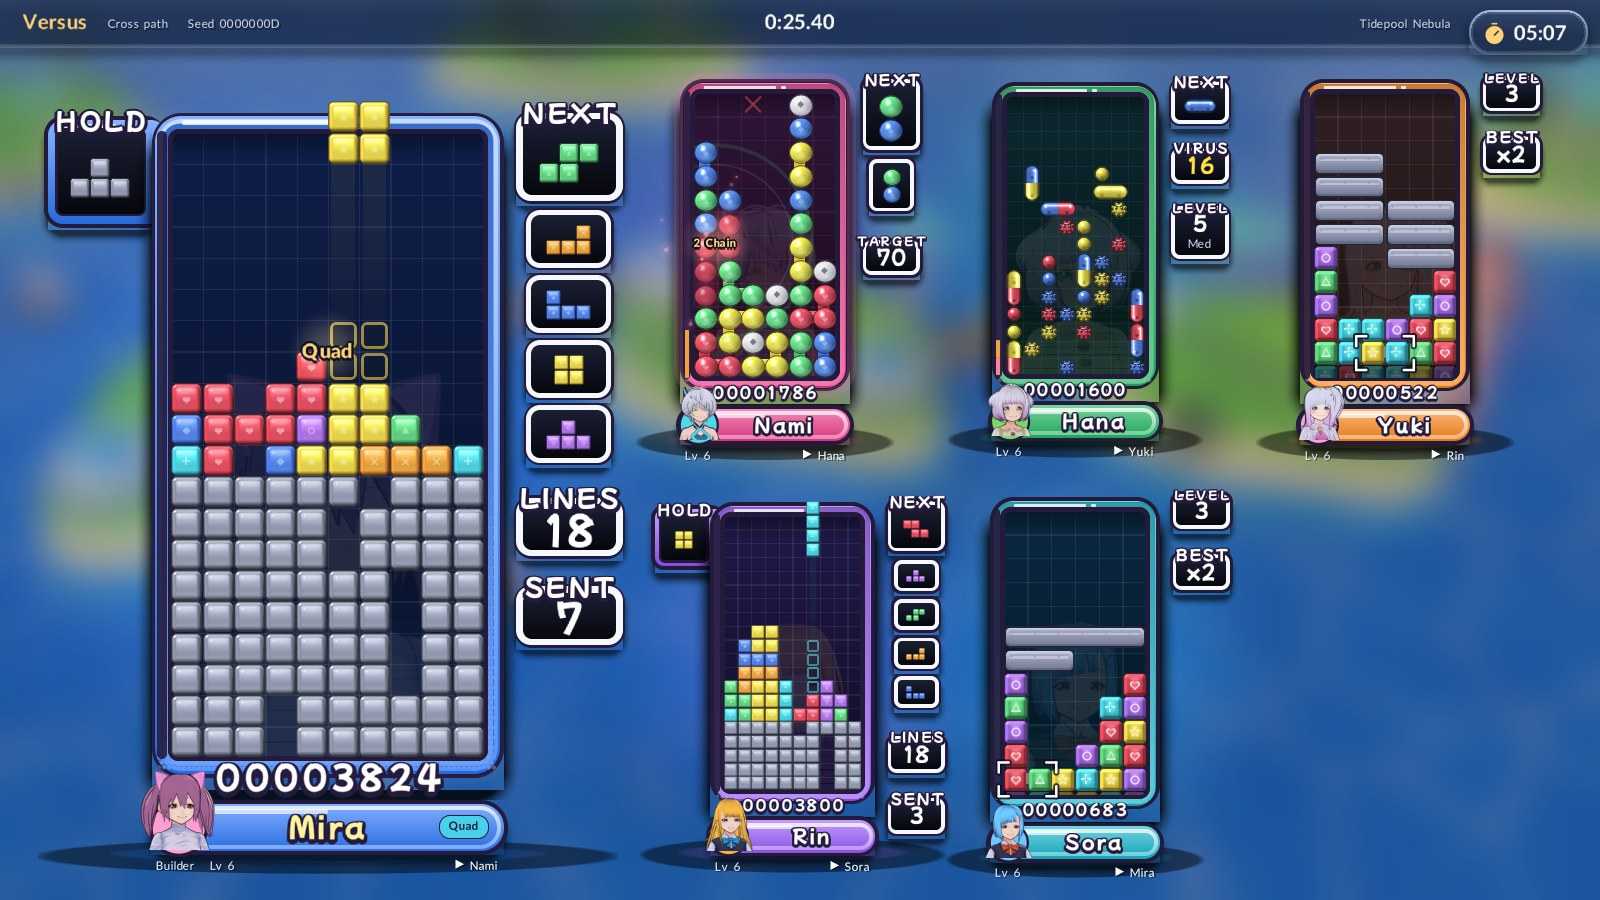
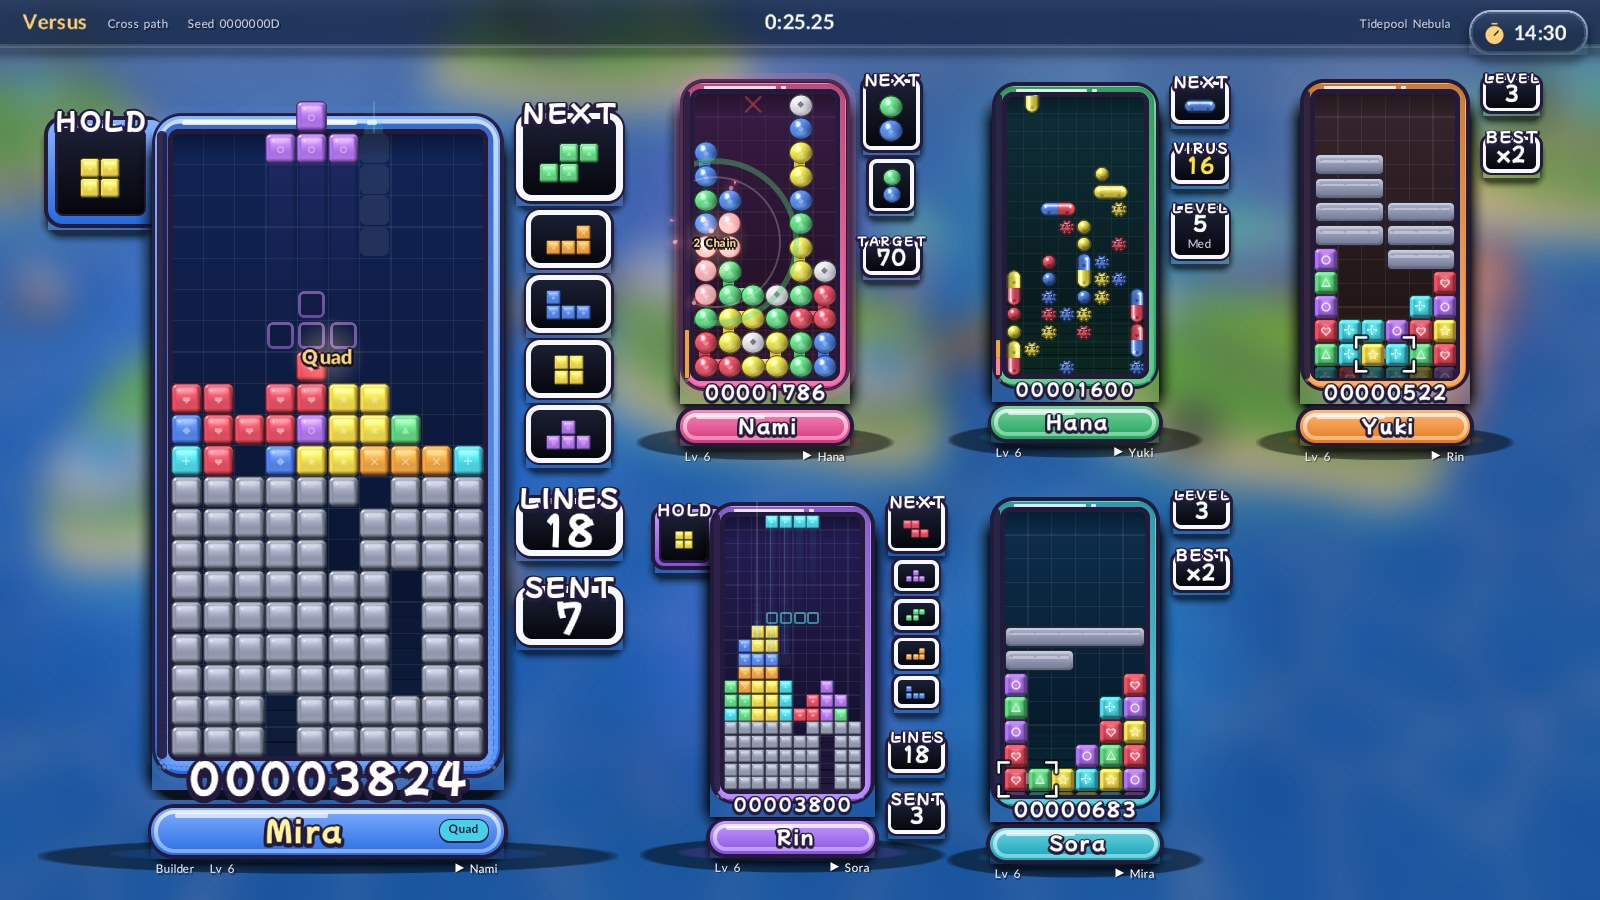
Keep the characters off the board UI
- No character is ghosted inside the wells any more, and the name bar no
  longer carries a portrait that poked out over the score; the score can use
  more of the board's width.
- In matches where the characters stand beside the boards, their size and
  position now come from the boards' real outer edges (cards included), so
  they never stand in front of Hold, Next or the counters.

Claude-Session: https://claude.ai/code/session_01Ef4Vv3Hk3wDPv7h7Fse5ye

diff --git a/crates/purtris-client/src/render.rs b/crates/purtris-client/src/render.rs
@@ -570,11 +570,10 @@ pub fn style_accent(s: Style) -> u32 {
 
 /// The cabinet around a well, in the seat's colour: ink outline, a chunky glossy frame with a
 /// light inner bevel and halftone dots toward the bottom, the garbage meter's groove in the
-/// left bar, then a dark well tinted toward the seat's colour with a faint grid and the
-/// player's character ghosted large behind the cells. Painted once in real pixels at scale
-/// `k`, offset by WELL_PAD.
+/// left bar, then a dark well tinted toward the seat's colour with a faint grid. Painted once
+/// in real pixels at scale `k`, offset by WELL_PAD.
 #[allow(clippy::too_many_arguments)]
-fn paint_well(k: f32, fw: i32, fh: i32, cell: i32, cols: i32, rows: i32, style: Style, color: u32, r: i32, ghost: Option<&str>) -> Canvas {
+fn paint_well(k: f32, fw: i32, fh: i32, cell: i32, cols: i32, rows: i32, style: Style, color: u32, r: i32) -> Canvas {
     let p = WELL_PAD;
     let mut c = Canvas::new(((fw + 2 * p) as f32 * k).round() as i32, ((fh + 2 * p) as f32 * k).round() as i32);
     c.k = k;
@@ -616,12 +615,6 @@ fn paint_well(k: f32, fw: i32, fh: i32, cell: i32, cols: i32, rows: i32, style: 
     c.round_rect(p - 3, p - 3, fw + 6, fh + 6, r + 1, INK, 255);
     c.round_grad(p, p, fw, fh, r - 2, mix(0xFF0C_1132, color, 46), mix(0xFF04_050E, color, 24), 255);
     c.set_clip(p, p, fw, fh);
-    if let Some(id) = ghost {
-        // the player's character, large and faint, low in the well
-        let size = fw * 13 / 10;
-        crate::assets::draw_portrait(&mut c, id, "smile", p + (fw - size) / 2, p + fh - size * 19 / 20, size, 40, false);
-        c.rect_a(p, p, fw, fh, mix(0xFF04_050E, color, 30), 70);
-    }
     let ga = if style == Style::Chain || style == Style::Capsule { 12 } else { 18 };
     for x in 1..cols {
         c.rect_a(p + x * cell, p, 1, fh, 0xFFFF_FFFF, ga);
@@ -672,7 +665,7 @@ pub struct Renderer {
     pub scene: Scene,
     pub fx: Fx,
     pub geoms: [Geom; 6],
-    wells: std::collections::HashMap<(i32, i32, i32, u32, u32, u8, usize), Canvas>,
+    wells: std::collections::HashMap<(i32, i32, i32, u32, u32, u8), Canvas>,
     /// where each seat's side column has got to (the next free y)
     side_y: [i32; 6],
 }
@@ -812,17 +805,15 @@ impl Renderer {
         let pulse = ((v.t * 6.0).sin() * 0.5 + 0.5) as f32;
         let fwid = frame_w(fw);
         let r = (cell / 3).clamp(8, 16);
-        let member = &crate::cast::CAST[v.chars[i].min(crate::cast::CAST.len() - 1)];
         if glassy {
             // the cabinet never changes during a match, so it is painted once and reused
-            let ghost = if st.characters { Some(v.chars[i]) } else { None };
             let sk = match style {
                 Style::Quad => 0,
                 Style::Chain => 1,
                 Style::Capsule => 2,
                 Style::Panel => 3,
             };
-            let key = (fw, fh, cell, color, cv.k.to_bits(), sk, ghost.unwrap_or(usize::MAX));
+            let key = (fw, fh, cell, color, cv.k.to_bits(), sk);
             if self.wells.len() > 24 {
                 self.wells.clear();
             }
@@ -830,7 +821,7 @@ impl Renderer {
                 let (hx, hy, hw, hh, _) = hold_rect(&g);
                 hold_tab(cv, deco, hx, hy, hw, hh, &l);
             }
-            let wc = self.wells.entry(key).or_insert_with(|| paint_well(cv.k, fw, fh, cell, g.cols, g.rows, style, color, r, ghost.map(|_| member.id)));
+            let wc = self.wells.entry(key).or_insert_with(|| paint_well(cv.k, fw, fh, cell, g.cols, g.rows, style, color, r));
             cv.blit(wc, g.fx - WELL_PAD, g.fy - WELL_PAD, 255);
             // live light on the frame: it heats up with combos and breathes red in danger
             let edge = if danger { mix(color, l.warn, (120.0 + 135.0 * pulse) as u32) } else { lighten(color, 80) };
@@ -939,9 +930,9 @@ impl Renderer {
         }
         // the score: big outlined digits over the frame's bottom edge
         let score = format!("{:08}", board.score());
-        // big, but clear of the portrait at the left end of the name bar
+        // big, but inside the board's width
         let mut spx = score_px(fw).min((2 * fwid + 2) as f32);
-        while spx > 10.0 && chunky_w(&score, spx) > fw as f32 * 0.74 {
+        while spx > 10.0 && chunky_w(&score, spx) > fw as f32 * 0.9 {
             spx -= 1.0;
         }
         let score_y = (g.fy + fh + fwid + 1) as f32;
@@ -965,29 +956,7 @@ impl Renderer {
         } else {
             cv.round_rect(bx, by, bw, bar, 6, 0xFF0A_0E1E, 230);
         }
-        // the portrait pops out of the left end of the bar
-        let ps = bar * 17 / 10;
-        let mut left = bx + br;
-        if st.characters {
-            let expr = if m.outcome != Outcome::Running && m.is_winner(i) {
-                "delighted"
-            } else if !seat.alive {
-                "sad"
-            } else if board.danger() {
-                "shocked"
-            } else if self.fx.flash[i] > 0.3 {
-                "angry"
-            } else {
-                "smile"
-            };
-            let (px, py) = (bx - ps / 6, by + bar - ps);
-            cv.circle((px + ps / 2) as f32, (by + bar / 2) as f32, bar as f32 * 0.62, INK, 255);
-            cv.circle((px + ps / 2) as f32, (by + bar / 2) as f32, bar as f32 * 0.55, member.color, 255);
-            cv.set_clip(px - ps / 4, py - ps / 2, ps + ps / 2, ps + ps / 2 - ((ps - bar) / 2 - bar / 2).max(0) - 1);
-            crate::assets::draw_portrait(cv, member.id, expr, px - ps / 10, py, ps + ps / 5, 255, false);
-            cv.reset_clip();
-            left = px + ps + 2;
-        }
+        let left = bx + br;
         // the style chip at the right end
         let sname = crate::ui::title_case(style.name());
         let chip_w = Canvas::text_wb(&sname, 1, Weight::Bold) + 14;

diff --git a/crates/purtris-client/src/app.rs b/crates/purtris-client/src/app.rs
@@ -1996,6 +1996,12 @@ impl App {
             (215 + sx, 44, 850, ah)
         };
         self.match_bg(&g.m, &g.humans, (area.0 - sx, area.1, area.2, area.3));
+        // the boards' outer edges (with their cards), so the characters can stand clear of them
+        let edges = {
+            let gs = crate::render::layout(&g.m, &g.humans, (area.0 - sx, area.1, area.2, area.3));
+            let on: Vec<&crate::render::Geom> = gs.iter().filter(|q| q.cell > 0).collect();
+            (on.iter().map(|q| q.x).min().unwrap_or(area.0), on.iter().map(|q| q.x + q.w).max().unwrap_or(area.0 + area.2))
+        };
         if flank {
             let shown: Vec<usize> = if crowd { vec![active[0], *active.iter().find(|&&i| !g.humans[i]).unwrap_or(&active[1])] } else { active.clone() };
             for (k, &i) in shown.iter().enumerate() {
@@ -2015,10 +2021,15 @@ impl App {
                 } else {
                     "smile"
                 };
-                let right = k == 1 || (active.len() == 1 && false);
-                let cx = if right { if crowd { 1180 } else { 1150 } } else if crowd { 100 } else { 130 };
+                let right = k == 1;
+                // stand in the space beside the boards, never in front of their cards: the
+                // figure is about 0.44 of its height wide
+                let room = if right { 1280 - edges.1 } else { edges.0 } - 8;
+                let ch = (((room + 12) as f32 / 0.44) as i32).min(if crowd { 520 } else { 600 }).max(260);
+                let half = (ch as f32 * 0.22) as i32;
+                let cx = if right { edges.1 + 8 + room - half - 6 } else { room - half - 6 }.clamp(half - 12, 1280 - half + 12);
                 let bob = if self.st.reduce_motion { 0 } else { ((self.t * 1.6 + k as f32).sin() * 3.0) as i32 };
-                crate::assets::draw_char_ex(&mut self.cv, member.id, expr, cx, 712 + bob, if crowd { 520 } else { 600 }, 255, right);
+                crate::assets::draw_char_ex(&mut self.cv, member.id, expr, cx, 712 + bob, ch, 255, right);
                 let nw = Canvas::text_wb(member.name, 2, crate::font::Weight::Black) + 36;
                 self.cv.round_grad(cx - nw / 2, 640, nw, 36, 18, crate::gfx::lighten(member.color, 40), member.color, 255);
                 self.cv.text_weight(cx - nw / 2 + 18, 646, member.name, 2, 0xFF16_1028, 255, crate::font::Weight::Black);
